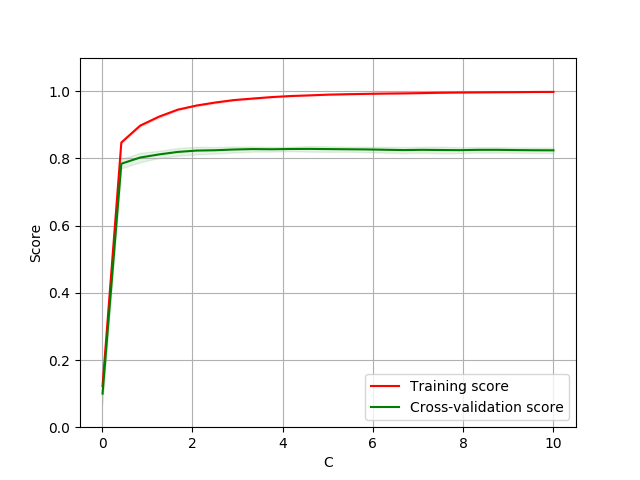
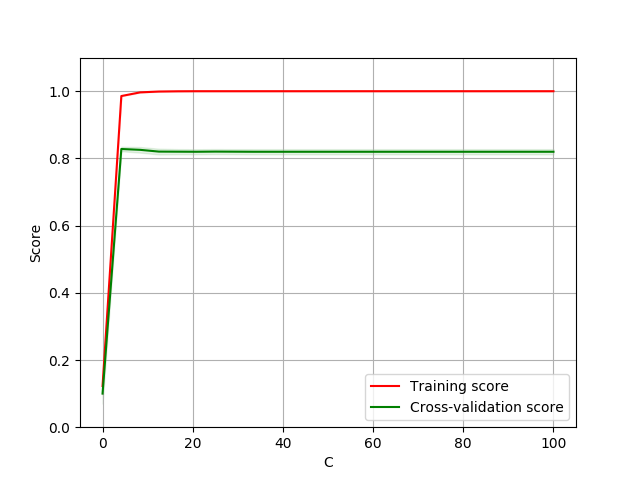
fsdf

diff --git a/HW_1/DT_HW1.py b/HW_1/DT_HW1.py
@@ -314,7 +314,7 @@ def ann_experiment_3(dataset_name, X_train, y_train): # ANN experiment 3: alpha
     start_time = time.time()
     cv = ShuffleSplit(n_splits=10, test_size=0.2, random_state=0)
     # cv = 5
-    param_range = np.linspace(0.01, 1, 25)
+    param_range = np.linspace(0.00001, 10, 25)
     train_scores, test_scores = validation_curve(clf, X_train, y_train,
                                                  param_name="alpha",
                                                  param_range=param_range,
@@ -552,7 +552,7 @@ def svm_experiment_2(dataset_name, X_train, y_train): # SVM experiment 2: C
     start_time = time.time()
     cv = ShuffleSplit(n_splits=10, test_size=0.2, random_state=0)
     # cv = None
-    param_range = np.linspace(0.01, 10, 25)
+    param_range = np.linspace(0.01, 100, 25)
     print param_range
     train_scores, test_scores = validation_curve(clf, X_train, y_train,
                                                  param_name="C",
@@ -656,7 +656,7 @@ if __name__=="__main__":
     # knn_experiment_3(set1_name, X_train, y_train)  # algorithm vs. score
 
     # SVM experiment 1: Sample size vs Accuracy
-    svm_experiment_1(set1_name, X_train, y_train)
+    # svm_experiment_1(set1_name, X_train, y_train)
     # svm_experiment_3(set1_name, X_train, y_train)  # kernel vs. score
     # svm_experiment_2(set1_name, X_train, y_train)  # C vs. score
 
@@ -841,8 +841,8 @@ if __name__=="__main__":
     # knn_experiment_3(set2_name, X2_train, y2_train)  # algorithm vs. score
 
     # SVM experiment 1: Sample size vs Accuracy
-    svm_experiment_1(set2_name, X2_train, y2_train)
-    # svm_experiment_2(set2_name, X2_train, y2_train)  # C vs. score
+    # svm_experiment_1(set2_name, X2_train, y2_train)
+    svm_experiment_2(set2_name, X2_train, y2_train)  # C vs. score
     # svm_experiment_3(set2_name, X2_train, y2_train)  # kernel vs. score
 
 
